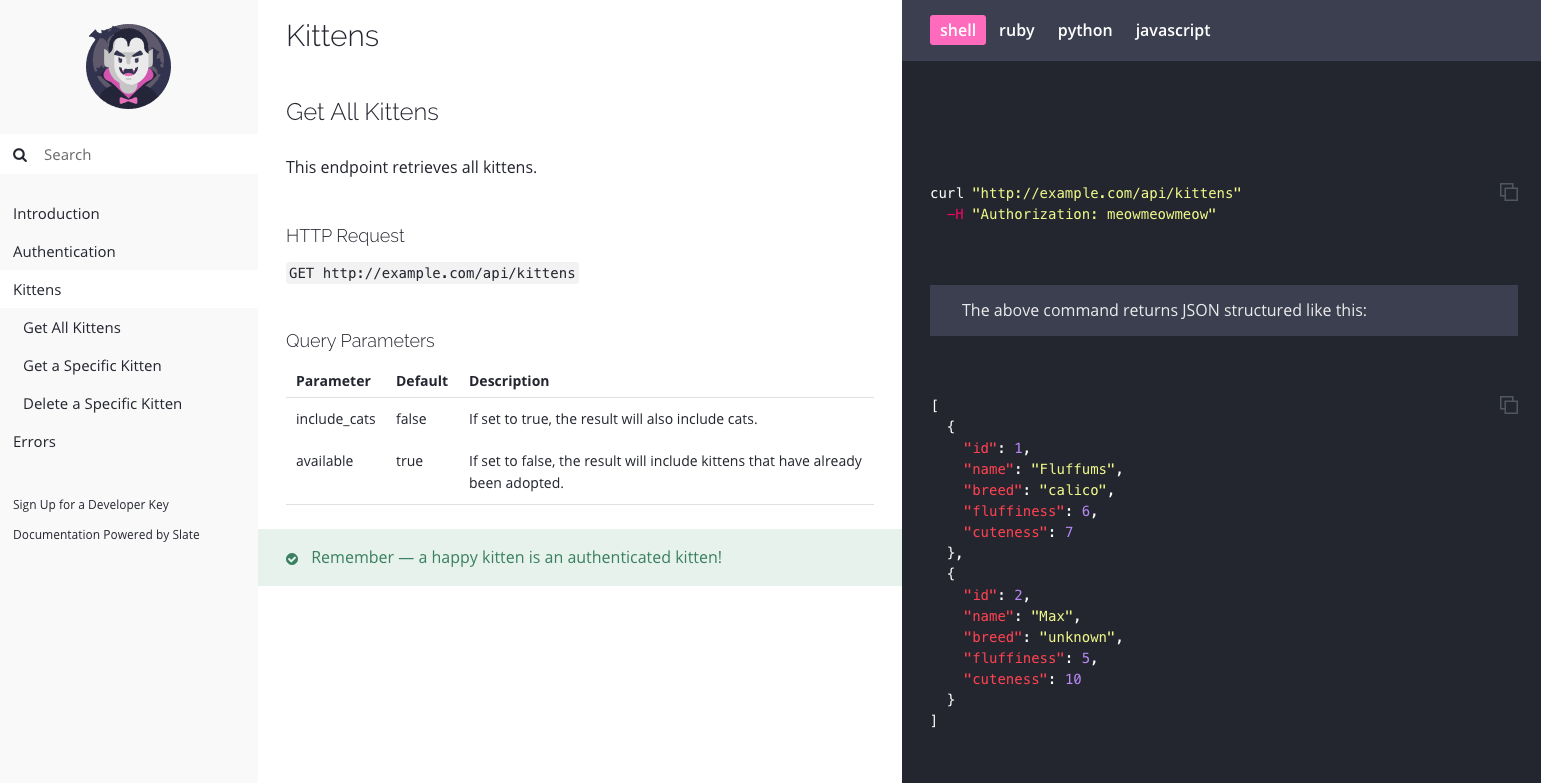
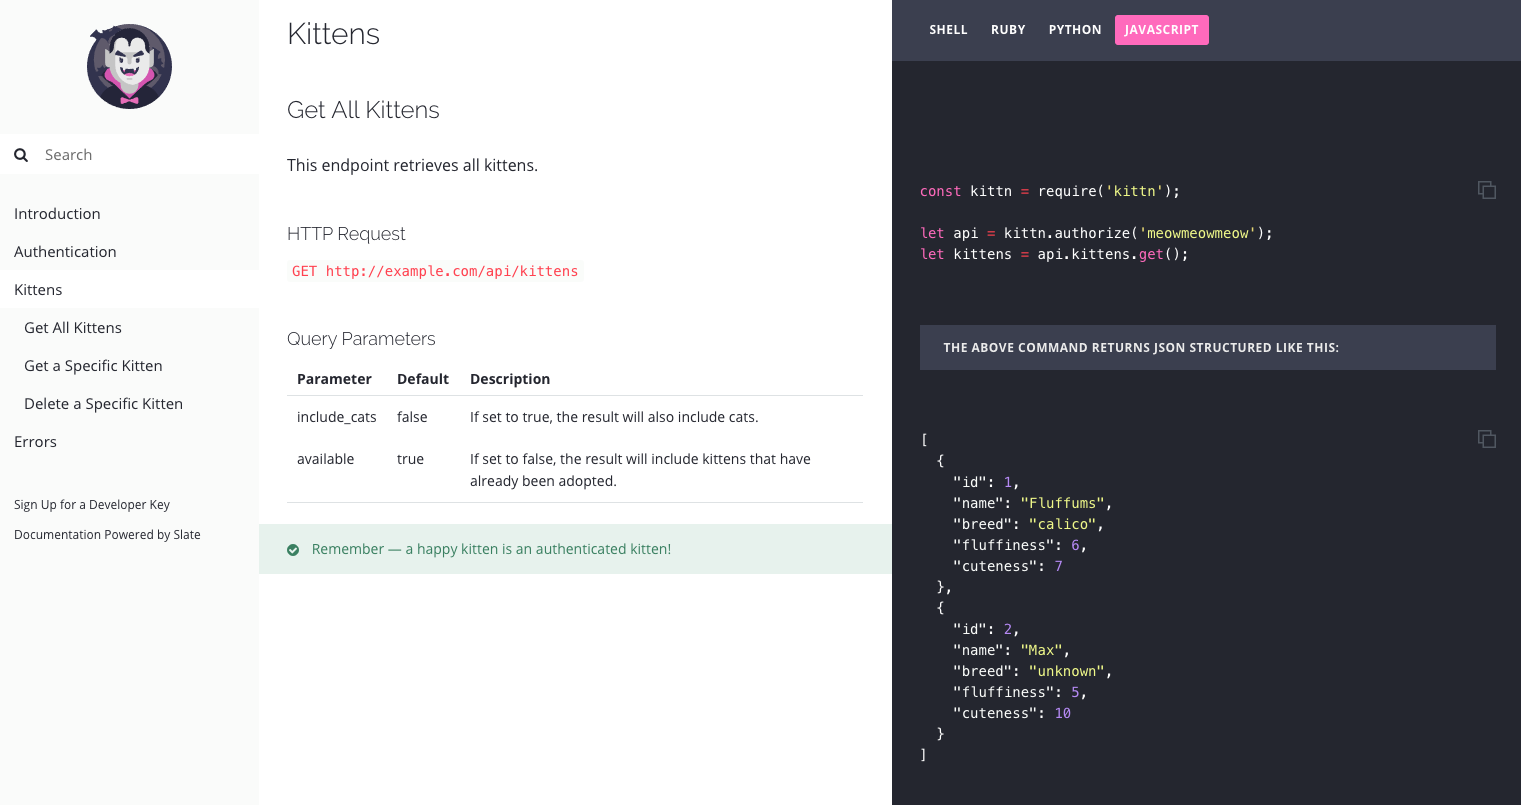
Minor styling tweaks. New screenshot.

diff --git a/source/stylesheets/screen.css.scss b/source/stylesheets/screen.css.scss
@@ -451,11 +451,18 @@ html, body {
   }
 
   code {
-    background-color: rgba(0,0,0,0.05);
+    background-color: $drac-white;
     padding: 3px;
     border-radius: 3px;
     @extend %break-words;
     @extend %code-font;
+  }
+
+  p code {
+    background-color: $drac-white;
+    padding: 3px 5px;
+    border-radius: 3px;
+    color: $drac-red;
   }
 
   pre>code {
@@ -471,6 +478,7 @@ html, body {
     background: $aside-notice-bg;
     line-height: 1.6;
     color: $aside-notice-text;
+    font-size: 14px;
 
     &.warning {
       background-color: $aside-warning-bg;
@@ -487,6 +495,8 @@ html, body {
     vertical-align: middle;
     padding-right: 0.5em;
     font-size: 14px;
+    position: relative;
+    top: -1px;
   }
 
   aside.notice:before {
@@ -576,6 +586,10 @@ html, body {
 @media (max-width: $tablet-width) {
   .content {
     padding-top: 28px;
+  }
+
+  .content>.highlight+p {
+    margin-top: 28px;
   }
 
   .toc-wrapper {

diff --git a/source/stylesheets/_variables.scss b/source/stylesheets/_variables.scss
@@ -24,7 +24,7 @@ under the License.
 $drac-bg: #282a36;
 $drac-dark-bg: #191C2B;
 $drac-light-bg: #44475a;
-$drac-white: #FAFAFA;
+$drac-white: #FBFCFB;
 $drac-comment: #6272a4;
 $drac-cyan: #8be9fd;
 $drac-green: #50fa7b;
